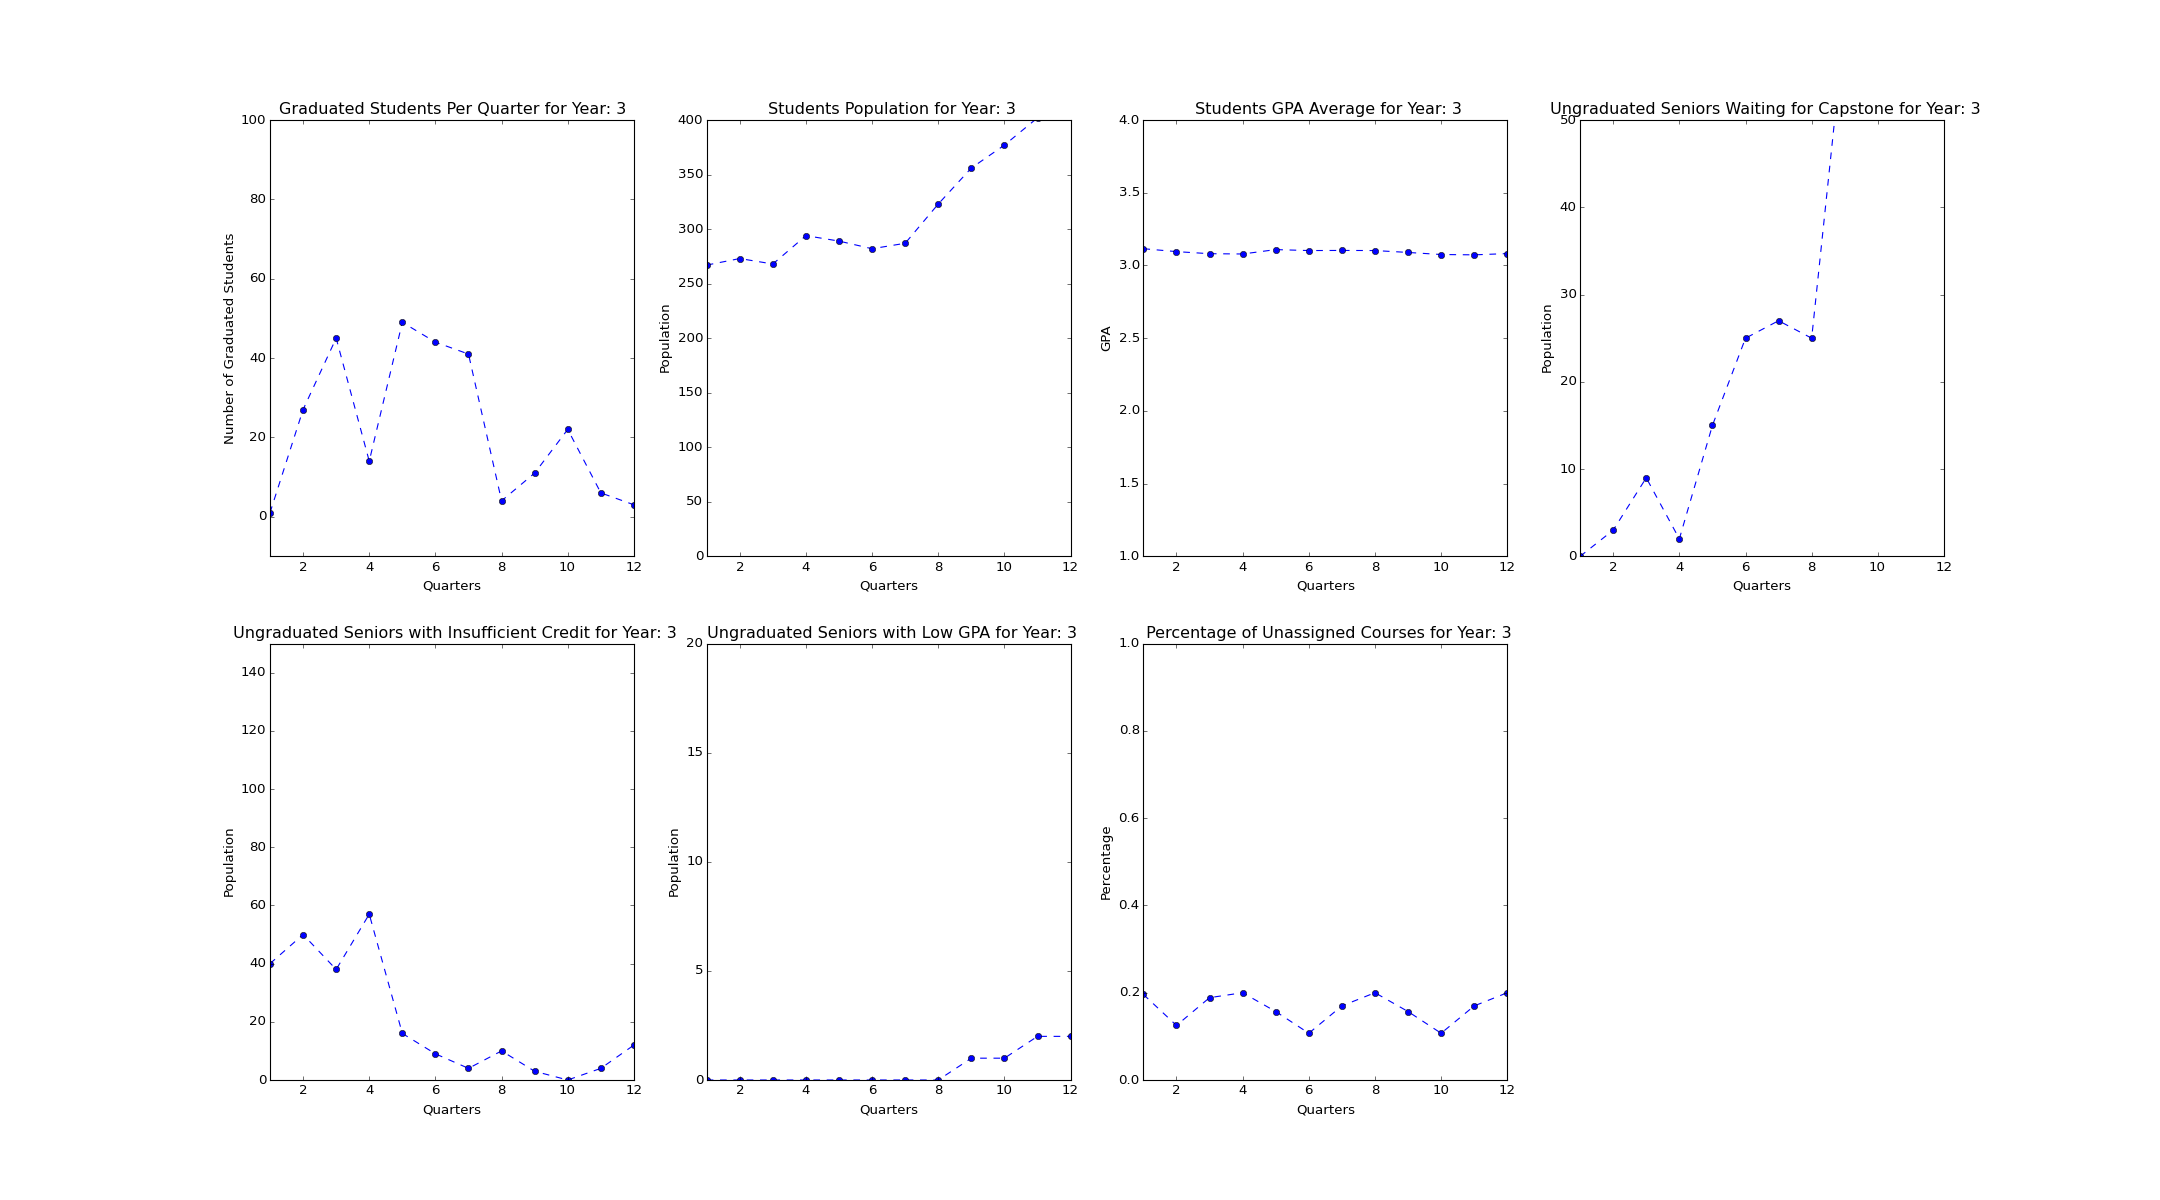
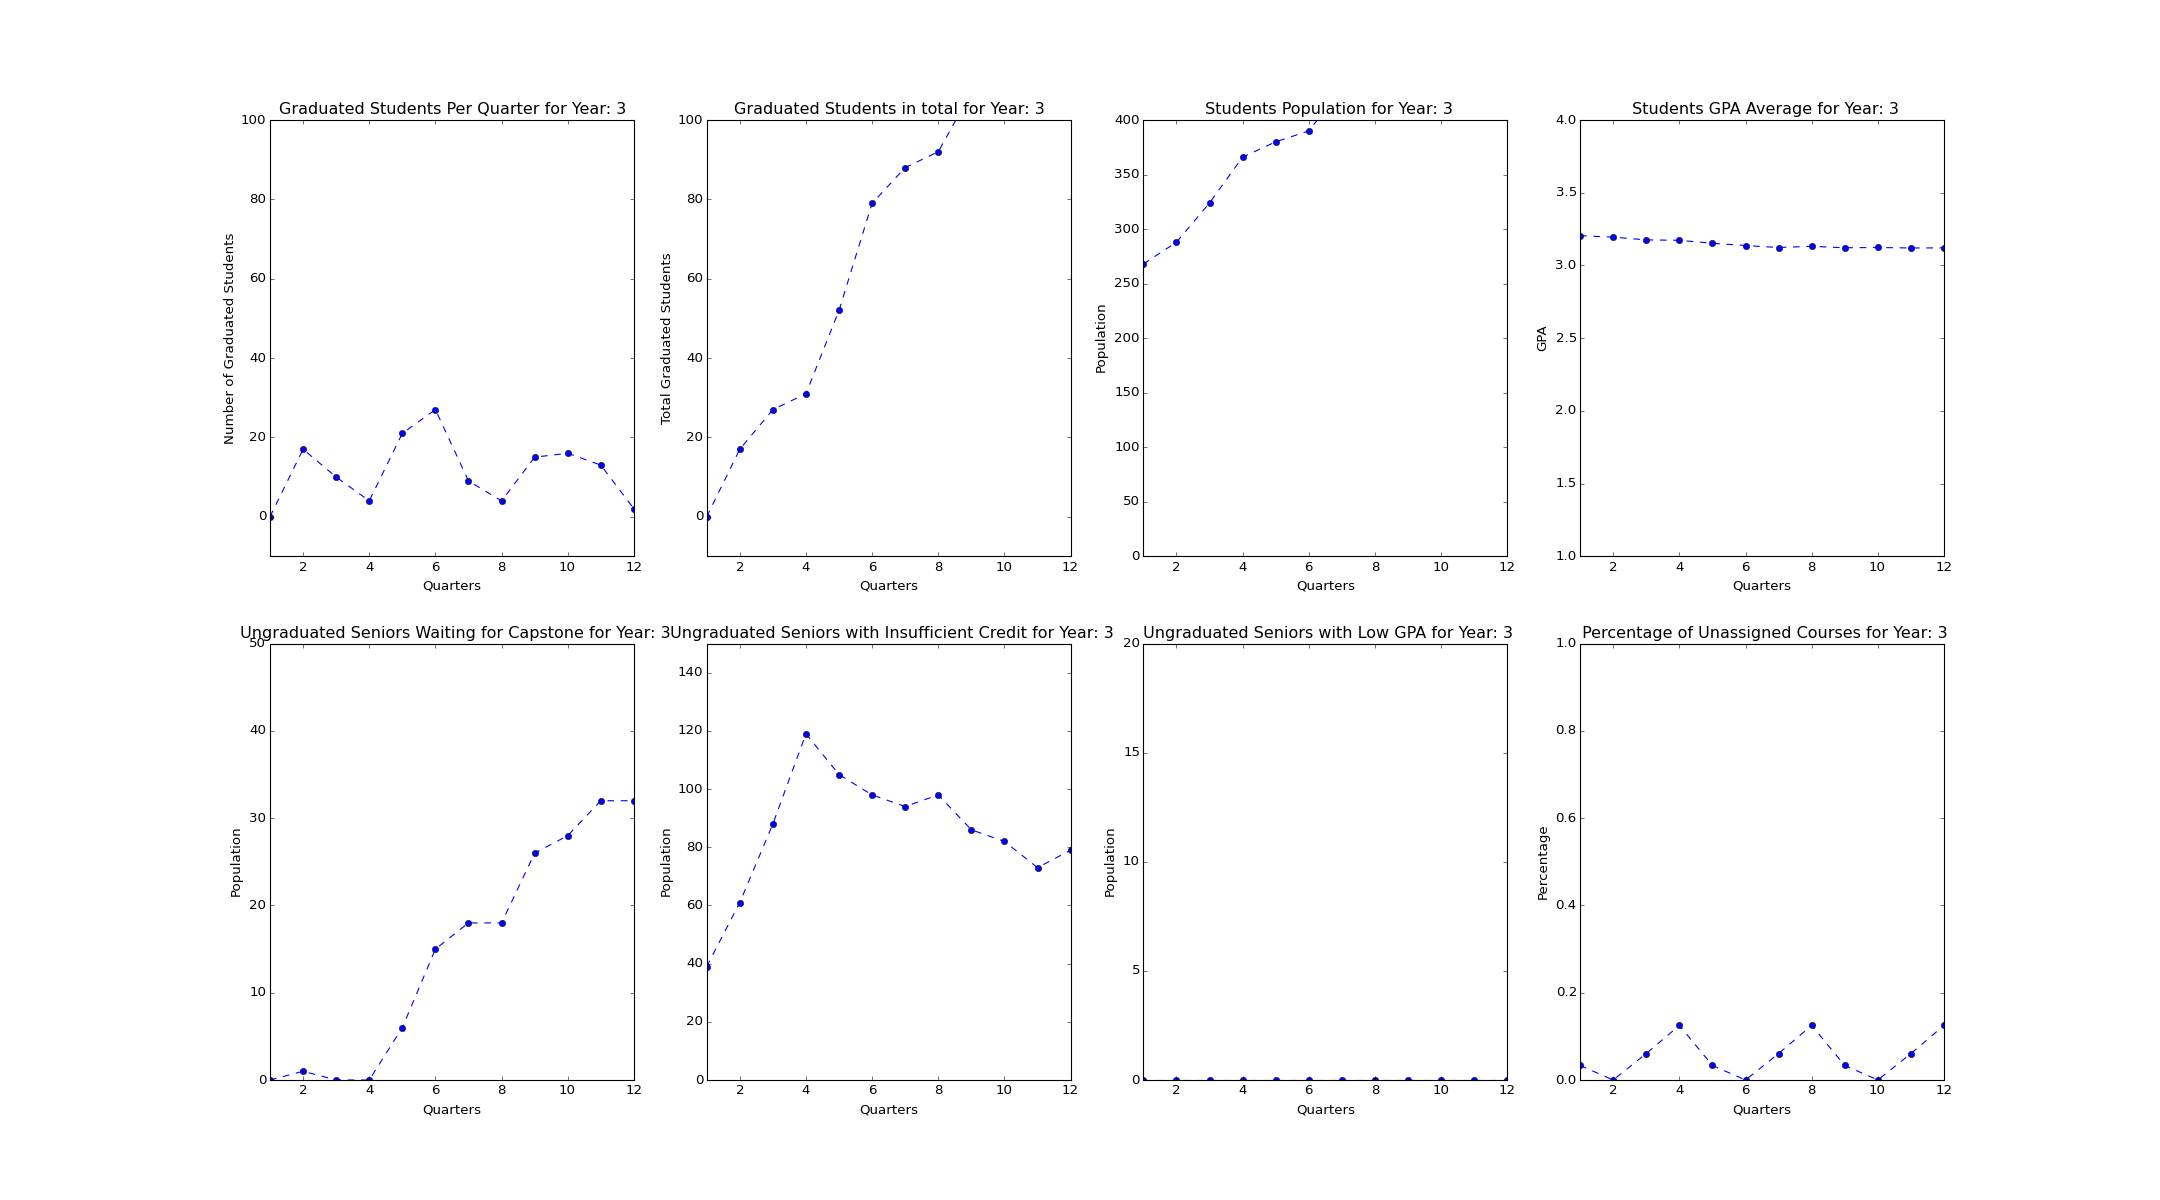
minor changes

diff --git a/SimMethod.py b/SimMethod.py
@@ -190,7 +190,7 @@ def endOfQuarter(students):
             i += 1
     g.student_graduated_quarter.append(graduated)
     g.NUM_GRADUATED += len(graduated)
-
+    g.CUMULATED_GRADUATED.append(g.NUM_GRADUATED)
     # move junior student to senior (spent 4 quarter) if applicable
     i = 0
     while(i < len(students[0])):
@@ -210,6 +210,7 @@ def displayData(students, professors, courses):
     Returns: None
     """
     print('Number of graduated students after this quarter:', len(g.student_graduated_quarter[-1]))
+    print('Number of graduated students in total:',g.NUM_GRADUATED)
     print('Current junior students:',len(students[0]))
     print('Current senior students:',len(students[1]))
     print('Current master students:',len(students[2]))
@@ -293,55 +294,63 @@ def simulate(years):
         for j in range(len(g.student_graduated_quarter)):
             graduateList.append(len(g.student_graduated_quarter[j]))
 
-        plt.figure(1,figsize=(27, 15), dpi=70,)
+        plt.figure(1,figsize=(20, 12), dpi=70,)
 
         plt.subplot(241)
 
         plt.plot(x_value,graduateList,'--o')
         # print graduated students
-        plt.title('Graduated Students Per Quarter for Year: '+ str(i + 1))
+        plt.title('Graduated Per Quarter.Year: '+ str(i + 1))
         plt.axis([1, x_value[-1],-10, 100])
         plt.xlabel('Quarters')
         plt.ylabel('Number of Graduated Students')
-        # print population
+
         plt.subplot(242)
+        plt.plot(x_value,g.CUMULATED_GRADUATED,'--o')
+        plt.title('Graduated in total for Year: '+ str(i + 1))
+        plt.axis([1, x_value[-1],-10, 100])
+        plt.xlabel('Quarters')
+        plt.ylabel('Total Graduated Students')
+
+        # print population
+        plt.subplot(243)
         plt.plot(x_value,g.student_population_quarter,'--o')
-        plt.title(' Students Population for Year: '+ str(i + 1))
+        plt.title('Students Population. Year: '+ str(i + 1))
         plt.axis([1, x_value[-1],0, 400])
         plt.xlabel('Quarters')
         plt.ylabel('Population')
 
         # display GPA average
-        plt.subplot(243)
+        plt.subplot(244)
         plt.plot(x_value,g.student_GPA_quarter,'--o')
-        plt.title(' Students GPA Average for Year: '+ str(i + 1))
+        plt.title(' Students GPA Average. Year: '+ str(i + 1))
         plt.axis([1, x_value[-1],1, 4])
         plt.xlabel('Quarters')
         plt.ylabel('GPA')
 
         # display ungraduated data
-        plt.subplot(244)
+        plt.subplot(245)
         plt.plot(x_value,g.ungraduated_without_capstone_quarter,'--o')
-        plt.title(' Ungraduated Seniors Waiting for Capstone for Year: '+ str(i + 1))
+        plt.title('Seniors Waiting for Capstone. Year: '+ str(i + 1))
         plt.axis([1, x_value[-1],0, 50])
         plt.xlabel('Quarters')
         plt.ylabel('Population')
 
-        plt.subplot(245)
+        plt.subplot(246)
         plt.plot(x_value,g.ungraduated_without_credit_quarter,'--o')
-        plt.title(' Ungraduated Seniors with Insufficient Credit for Year: '+ str(i + 1))
+        plt.title('Seniors with Insufficient Credit. Year: '+ str(i + 1))
         plt.axis([1, x_value[-1],0, 150])
         plt.xlabel('Quarters')
         plt.ylabel('Population')
 
-        plt.subplot(246)
+        plt.subplot(247)
         plt.plot(x_value,g.ungraduated_with_low_GPA_quarter,'--o')
-        plt.title(' Ungraduated Seniors with Low GPA for Year: '+ str(i + 1))
+        plt.title('Seniors with Low GPA. Year: '+ str(i + 1))
         plt.axis([1, x_value[-1],0, 20])
         plt.xlabel('Quarters')
         plt.ylabel('Population')
 
-        plt.subplot(247)
+        plt.subplot(248)
         plt.plot(x_value,g.percentage_of_unassigned_courses,'--o')
         plt.title(' Percentage of Unassigned Courses for Year: '+ str(i + 1))
         plt.axis([1, x_value[-1],0, 1.0])

diff --git a/globals.py b/globals.py
@@ -2,7 +2,7 @@
 #Name of file used for creating faculty
 FACULTY_FILE = "list_of_faculty.xlsx"
 #Name of the file used for building course catalogs
-COURSE_FILE = "list_of_classes.xlsx"
+# COURSE_FILE = "list_of_classes.xlsx"
 #First line that contains course data in course file
 COURSE_FILE_FIRST = 9
 #Last Line of relevant information in course file
@@ -20,13 +20,14 @@ ADMITTED_JUNIORS_PER_QUARTER = 40
 
 #=============================================================
 NUM_GRADUATED = 0
+CUMULATED_GRADUATED = []
 # variable for stats
 
 
 #File with very few core classes
 #COURSE_FILE = "No core classes.xlsx"
 #File with very few electives
-#COURSE_FILE = "just core classes.xlsx"
+COURSE_FILE = "just core classes.xlsx"
 # a list of graduated students
 student_graduated_quarter = []
 student_population_quarter = []
@@ -35,6 +36,7 @@ ungraduated_without_capstone_quarter = []
 ungraduated_without_credit_quarter = []
 ungraduated_with_low_GPA_quarter = []
 percentage_of_unassigned_courses = []
+total_graduated_students = []
 #Total number of advised students
 ADVISED_STUDENTS_PER_QUARTER = None
 # list of all faculty members
